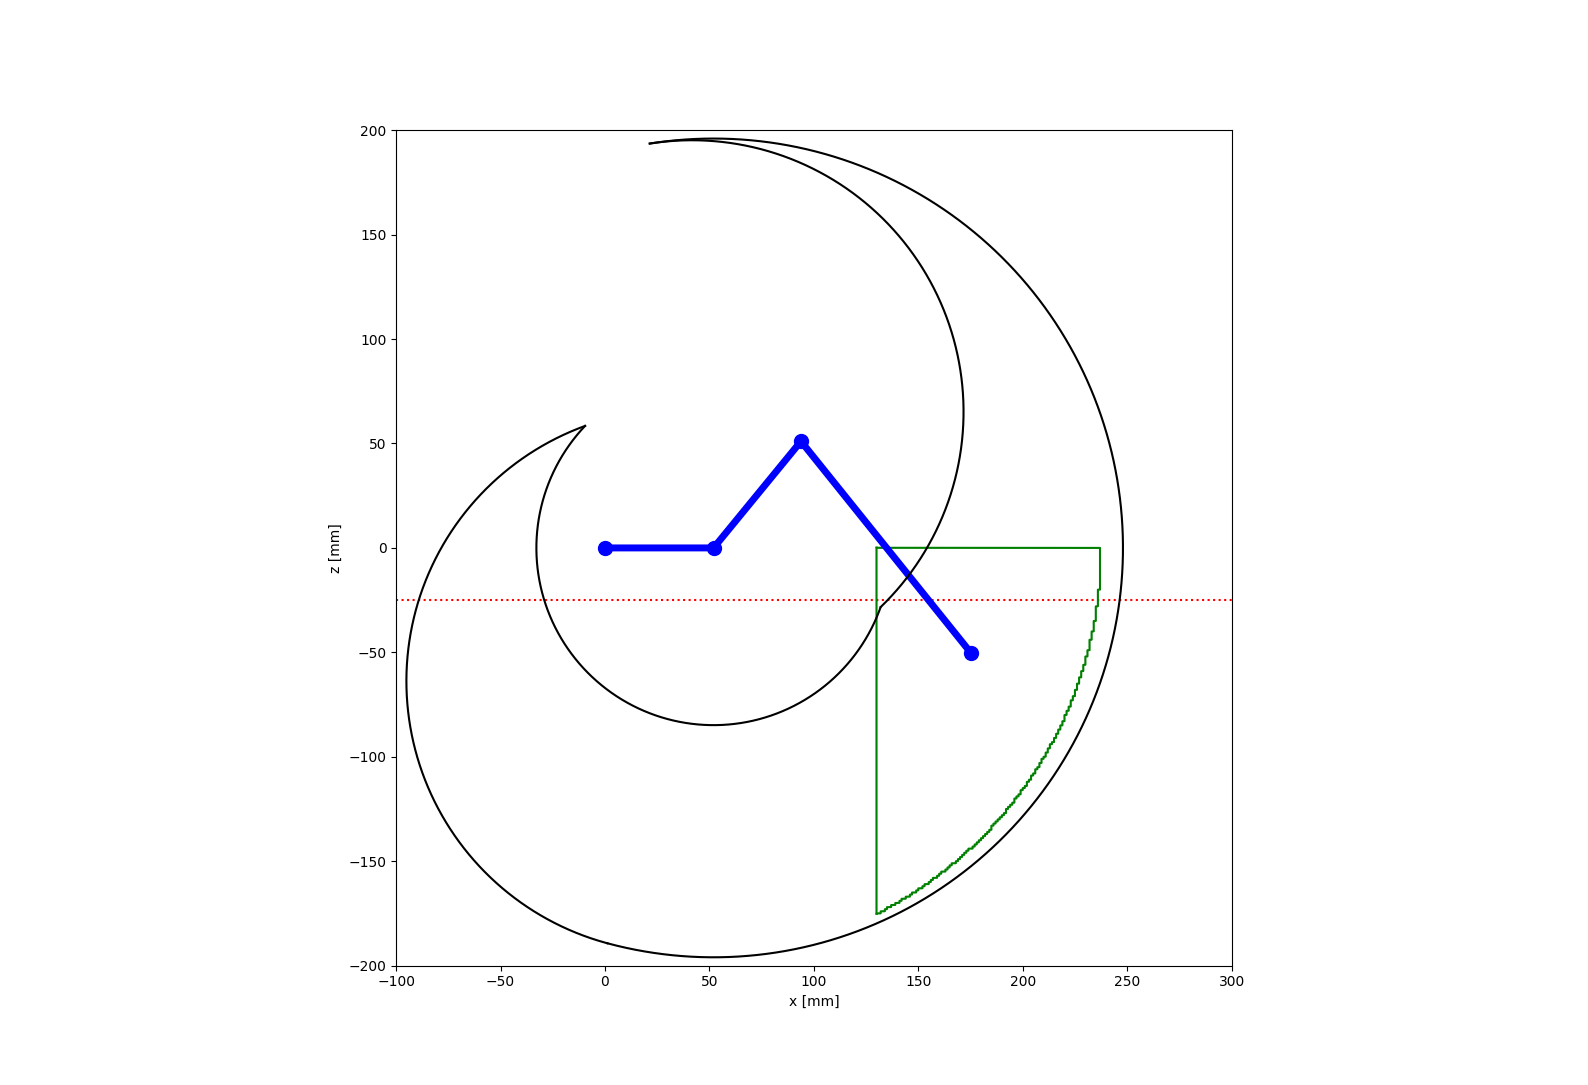
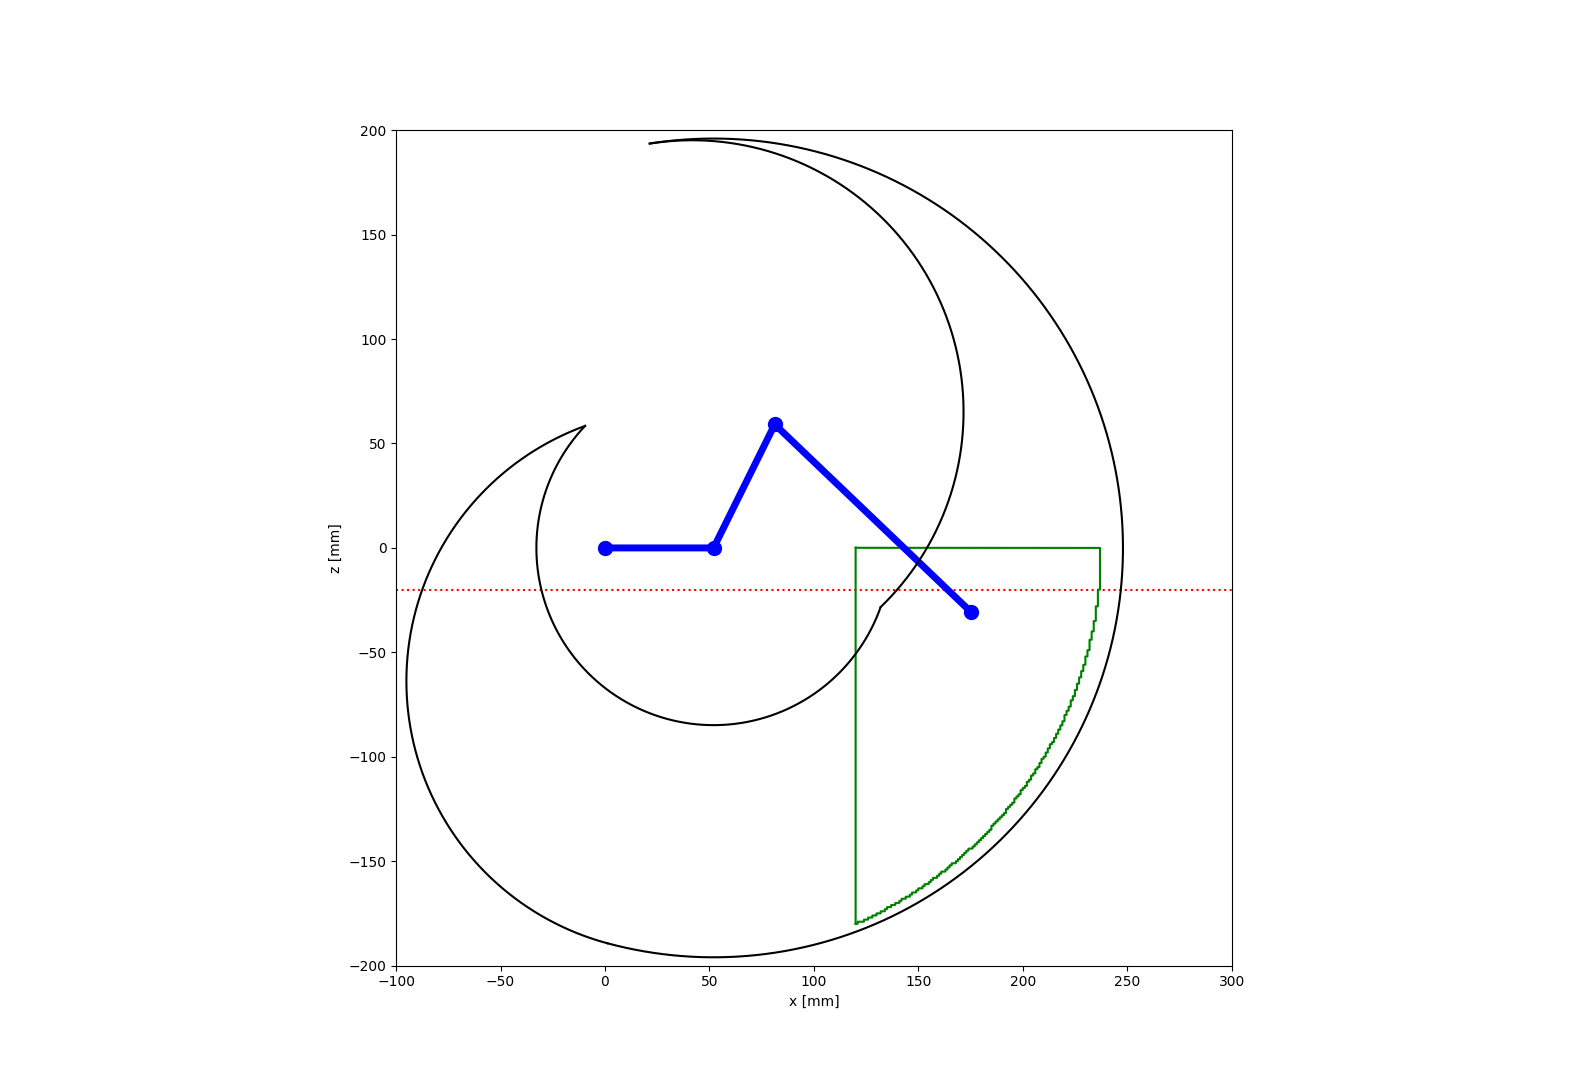
軽微な機能の追加

Changed region(s): [[0.5246, 0.4562, 0.6171, 0.8516], [0.432, 0.365, 0.5246, 0.4866]]

diff --git a/hexapod_graph_actual.py b/hexapod_graph_actual.py
@@ -14,11 +14,6 @@ X_MAX = 300.0
 Z_MIN = -200.0
 Z_MAX = 200.0
 
-GRAPH_STEP = 0.01
-
-MIN_LEG_RADIUS = 120
-
-
 
 if __name__ == "__main__":
 
@@ -27,7 +22,9 @@ if __name__ == "__main__":
     ax = fig.add_subplot(1,1,1)
 
     ax.plot([X_MIN,X_MAX],[-25,-25], color = "red",linestyle = "dotted")               # グラフを描画する
+    ax.plot([X_MIN,X_MAX],[-50,-50], color = "orange",linestyle = "dotted")               # グラフを
 
+    # 0,0を通る線を描画する
     #ax.plot([0,0],[Z_MIN,Z_MAX], color = "black", lw = 0.5)       # グラフを描画する    
     #ax.plot([X_MIN,X_MAX],[0,0], color = "black", lw = 0.5)       # グラフを描画する
 
@@ -40,7 +37,8 @@ if __name__ == "__main__":
     # 脚の可動範囲の近似値を描画
     app_graph = dl.ApproximatedGraphRenderer()
     app_graph.set_min_leg_radius(130)
-    app_graph.set_draw_fill(False)
+    #app_graph.set_draw_fill(False)
+    app_graph.set_alpha(0.5)
     app_graph.render(ax,-175.1, 0.1)
 
     # 脚を描画
@@ -48,6 +46,7 @@ if __name__ == "__main__":
     leg_renderer.set_event(fig, ax, ax_table)
     leg_renderer.set_circle(False)
     leg_renderer.set_wedge(False)
+    leg_renderer.set_img_file_name("result/img_act.png")    # 左クリックで保存するファイル名を指定
 
     # 脚の可動範囲を描画する
     hexapod_range_of_motion = dl.HexapodRangeOfMotion()
@@ -55,13 +54,14 @@ if __name__ == "__main__":
 
     ax.set_xlim(X_MIN, X_MAX)   # x 軸の範囲を設定
     ax.set_ylim(Z_MIN, Z_MAX)   # z 軸の範囲を設定
+    #ax.set_xlim(100, 150)   # x 軸の範囲を設定
+    #ax.set_ylim(-50, 0)   # z 軸の範囲を設定
 
-    ax.set_xlabel('x [mm]')        # x軸のラベルを設定
-    ax.set_ylabel('z [mm]')        # y軸のラベルを設定
+    ax.set_xlabel('x [mm]')     # x軸のラベルを設定
+    ax.set_ylabel('z [mm]')     # y軸のラベルを設定
 
     ax.set_aspect('equal')  # x,y軸のスケールを揃える
 
     ax_table.set_visible(False)
 
-    fig.savefig("result/img_act.png",transparent=True)
     plt.show()  # 表示する

diff --git a/hexapod_graph_simu.py b/hexapod_graph_simu.py
@@ -14,20 +14,17 @@ X_MAX = 300.0
 Z_MIN = -200.0
 Z_MAX = 200.0
 
-GRAPH_STEP = 0.01
-
-MIN_LEG_RADIUS = 120
-
-
 
 if __name__ == "__main__":
 
     fig = plt.figure()
-    ax_table = fig.add_subplot(3,3,2)
+    ax_table = fig.add_subplot(3,3,2)   # 今回は使用しないので適当な座標に配置
     ax = fig.add_subplot(1,1,1)
 
     ax.plot([X_MIN,X_MAX],[-20,-20], color = "red",linestyle = "dotted")               # グラフを描画する
+    ax.plot([X_MIN,X_MAX],[-30,-30], color = "orange",linestyle = "dotted")               # グラフを
 
+    # 0,0を通る線を描画する
     #ax.plot([0,0],[Z_MIN,Z_MAX], color = "black", lw = 0.5)       # グラフを描画する    
     #ax.plot([X_MIN,X_MAX],[0,0], color = "black", lw = 0.5)       # グラフを描画する
 
@@ -40,6 +37,7 @@ if __name__ == "__main__":
     # 脚の可動範囲の近似値を描画
     app_graph = dl.ApproximatedGraphRenderer()
     app_graph.set_draw_fill(False)
+    #app_graph.set_alpha(0.5)
     app_graph.render(ax,-180, 0.1)
 
     # 脚を描画
@@ -47,6 +45,7 @@ if __name__ == "__main__":
     leg_renderer.set_event(fig, ax, ax_table)
     leg_renderer.set_circle(False)
     leg_renderer.set_wedge(False)
+    leg_renderer.set_img_file_name("result/img_simu.png")   # 左クリックで保存するファイル名を指定
 
     # 脚の可動範囲を描画する
     hexapod_range_of_motion = dl.HexapodRangeOfMotion()
@@ -60,7 +59,6 @@ if __name__ == "__main__":
 
     ax.set_aspect('equal')  # x,y軸のスケールを揃える
 
-    ax_table.set_visible(False)
+    ax_table.set_visible(False) # 表示しない
 
-    fig.savefig("result/img_simu.png",transparent=True)
     plt.show()  # 表示する

diff --git a/hexapod_main.py b/hexapod_main.py
@@ -25,11 +25,6 @@ X_MAX = 300.0
 Z_MIN = -200.0
 Z_MAX = 200.0
 
-GRAPH_STEP = 0.01
-
-MIN_LEG_RADIUS = 120
-
-
 
 if __name__ == "__main__":
 
@@ -41,21 +36,28 @@ if __name__ == "__main__":
 
     # 脚が出せる力のグラフを描画
     hexapod_leg_power = dl.HexapodLegPower()
-    #hexapod_leg_power.render(fig, ax,X_MIN,X_MAX,Z_MIN,Z_MAX)
+    hexapod_leg_power.set_step(2.0) 
+    hexapod_leg_power.render(fig, ax,X_MIN,X_MAX,Z_MIN,Z_MAX)
 
     # 脚の可動範囲の近似値を描画
     app_graph = dl.ApproximatedGraphRenderer()
-    app_graph.set_draw_fill(False)
+    app_graph.set_draw_additional_line(True)
+    app_graph.set_draw_fill(True)
+    app_graph.set_alpha(0.5)
+    app_graph.set_color('green')
+    app_graph.set_min_leg_radius(120)
     app_graph.render(ax,Z_MIN,Z_MAX)
 
     # 脚を描画
     leg_renderer = dl.HexapodLegRenderer()
     leg_renderer.set_event(fig, ax, ax_table)
-    leg_renderer.set_circle(False)
+    leg_renderer.set_circle(True)
+    leg_renderer.set_wedge(True)
+    leg_renderer.set_img_file_name("result/img_main.png")   # 左クリックで保存するファイル名を指定
 
     # マウスがグラフのどこをポイントしているかを示す線を描画する
     mouse_grid_renderer = dl.MouseGridRenderer()
-    #mouse_grid_renderer.set_event(fig, ax)
+    mouse_grid_renderer.set_event(fig, ax)
 
     # 脚の可動範囲を描画する
     hexapod_range_of_motion = dl.HexapodRangeOfMotion()

diff --git a/designlab/hexapod_leg_renderer.py b/designlab/hexapod_leg_renderer.py
@@ -29,6 +29,8 @@ class HexapodLegRenderer:
     _alreadly_init = False     # 初期化フラグ
     _reverse = False           # 反転フラグ
 
+    _fig_name = "result/img.png"
+
     def __init__(self):
         return    
     
@@ -235,7 +237,7 @@ class HexapodLegRenderer:
 
         # 左クリックされた場合は表示を更新
         elif event.button == left_click_index:
-            self._fig.savefig("result/img.png",transparent=True)
+            self._fig.savefig(self._fig_name,transparent=True)
             self._leg_graph_click.set_visible(True)
             self._joint_pos_click = self._joint_pos
             self._leg_graph_click.set_data(self._joint_pos_click)
@@ -262,6 +264,10 @@ class HexapodLegRenderer:
         else:
             self._femur_wedge.set_visible(False)
             self._tibia_wedge.set_visible(False)
+
+    def set_img_file_name(self, file_name):
+        #type : (str) -> None
+        self._fig_name = file_name
 
 if __name__ == "__main__":
     print("hexapod_leg_renderer.py" + "\nここで実行しても何も起こりません。")
